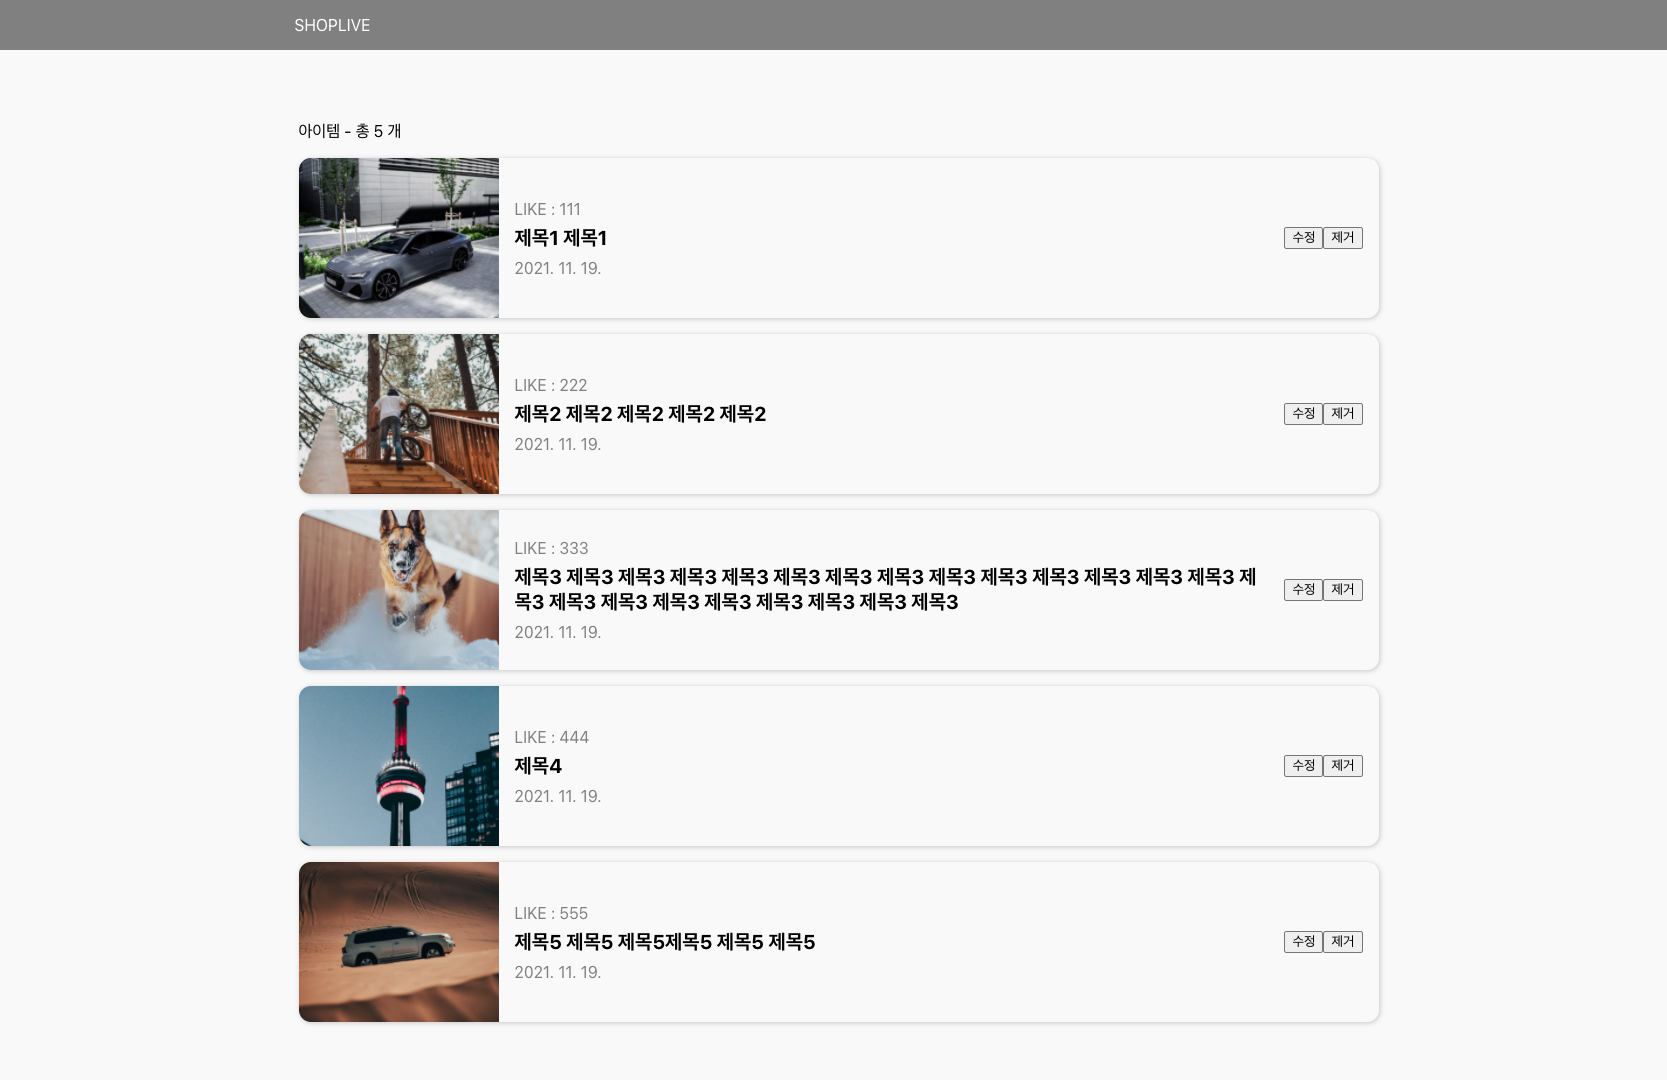
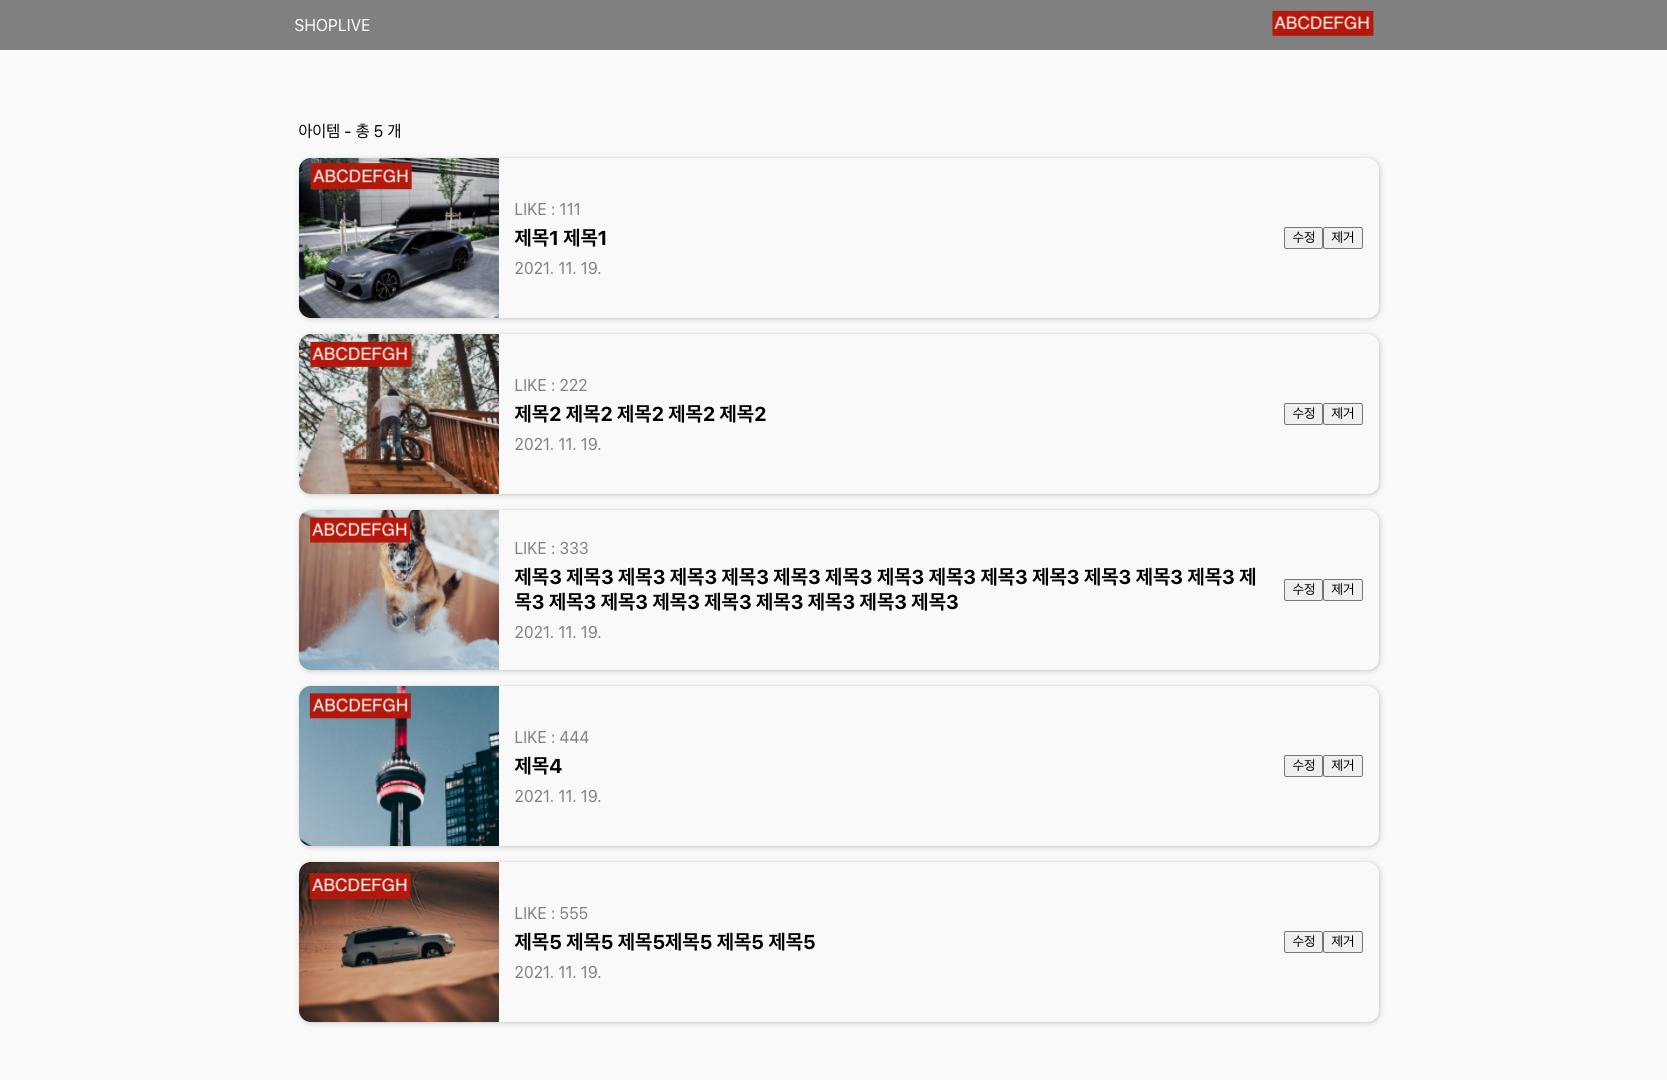
Add quiz - Promise

diff --git a/src/DescriptionComponent.jsx b/src/DescriptionComponent.jsx
@@ -89,6 +89,13 @@ const Goal = () => {
     </div>
 
     <div className="wrap-quiz">
+      <h2>문제 9</h2>
+      <p>8자리의 랜덤 문자열을 생성하여, 헤더영역과 각 아이템의 사진 좌상단 영역에 표시하고 싶습니다. (예시 이미지 - 'ABCDEFH' 표시 된 영역 참고)</p>
+      <p>이를 위해 제공된 <mark><code>getRandomText(): Promise</code></mark> 함수를 사용해주세요. ('/src/random-text.js')</p>
+      <p>이 랜덤 문자열은 <strong>3초마다 새로운 문자열로 갱신</strong>되야 하고, <strong>모든 곳에서 동일한 문자열</strong>이 표시되야 합니다.</p>
+    </div>
+
+    <div className="wrap-quiz">
       <h3>App.jsx 에서, "DescriptionComponent"를 제거하고 문제를 푸시면 됩니다.</h3>
     </div>
 

diff --git a/src/App.jsx b/src/App.jsx
@@ -2,6 +2,7 @@ import "./App.scss";
 
 import { DUMMY } from './dummies'
 import DescriptionComponent from "./DescriptionComponent";
+// import { getRandomText } from "./random-text";
 
 const App = () => {
   return (
@@ -10,7 +11,7 @@ const App = () => {
       {/* 아래 DescriptionComponent 는 제거하세요. */}
       <DescriptionComponent />
 
-      <header>SHOPLIVE</header>
+      <header><span>SHOPLIVE</span></header>
         <div>
           <input placeholder="검색" />
           <button>검색</button>

diff --git a/src/random-text.js b/src/random-text.js
@@ -1,0 +1,13 @@
+
+const chars = 'ABCDEFGHIJKLMNOPQRSTUVWXTZabcdefghiklmnopqrstuvwxyz'
+
+export const getRandomText = () => {
+
+  let result = '';
+  for (let i=0; i<8; i++) {
+    result += chars.charAt(Math.floor(Math.random() * chars.length));
+  }
+  return new Promise((resolve) => {
+    resolve(result)
+  })
+}
